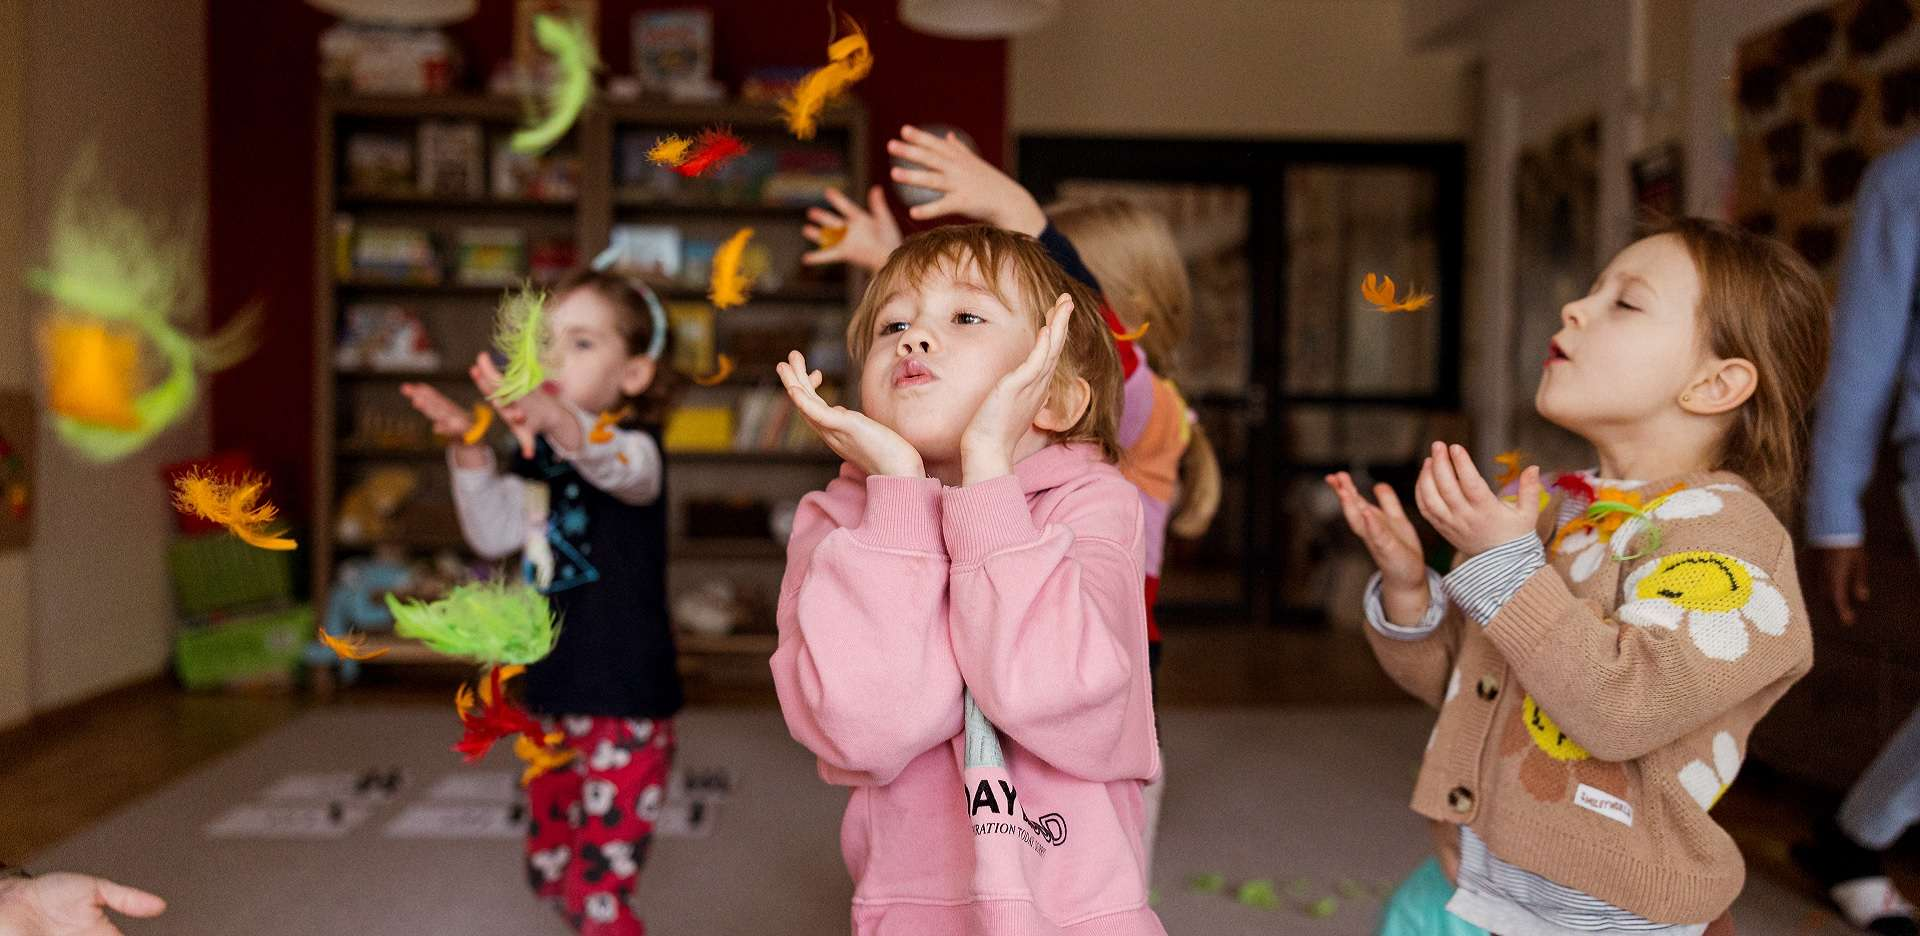
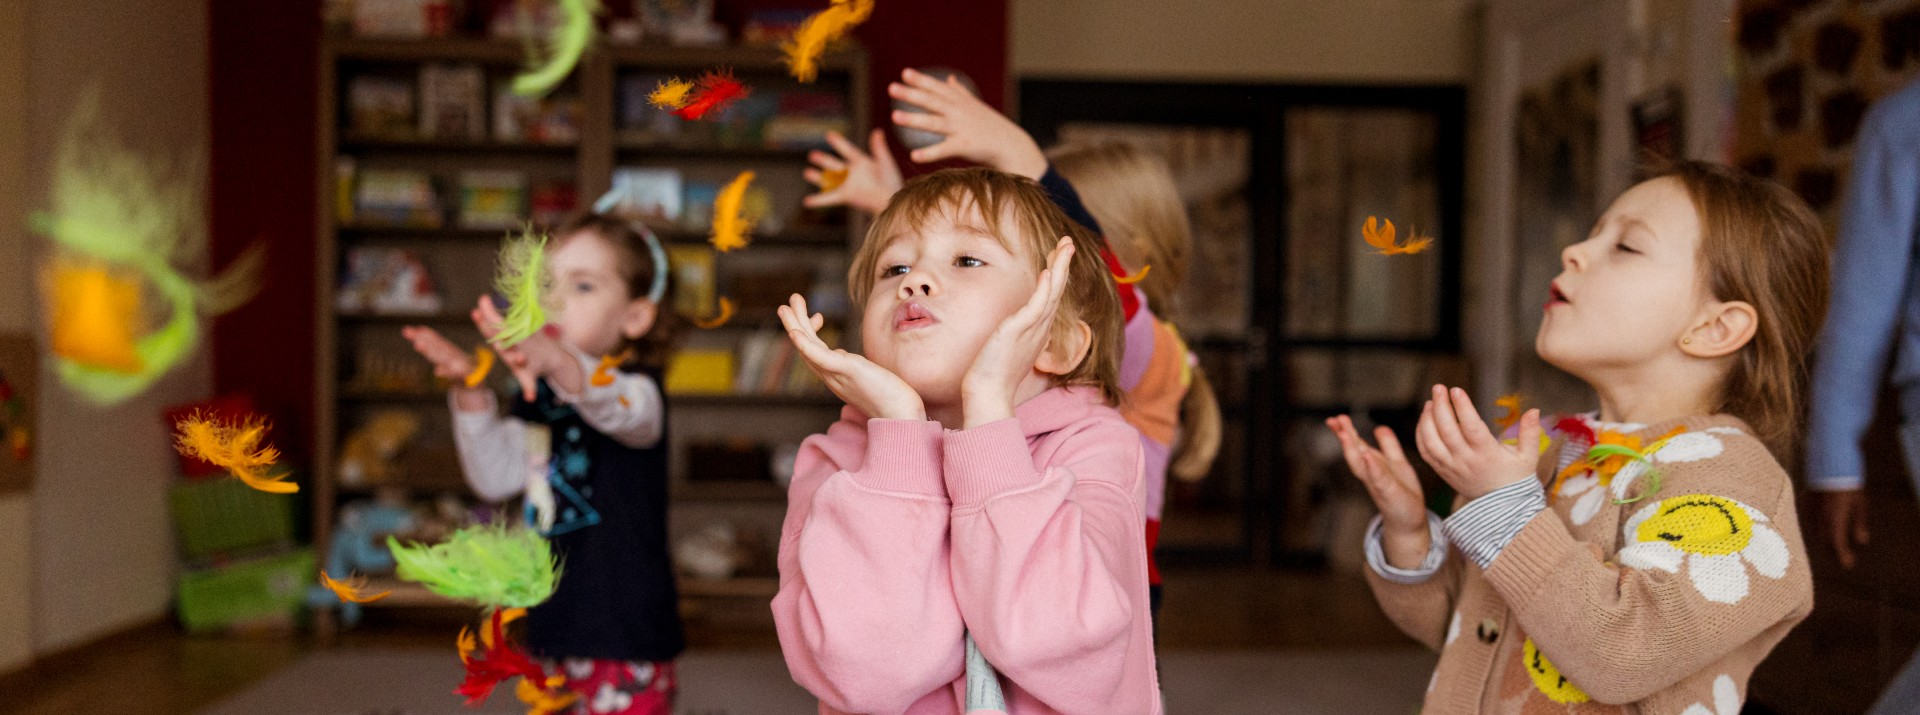
main slider fix

diff --git a/src/components/MainSlider/MainSlider.module.css b/src/components/MainSlider/MainSlider.module.css
@@ -1,7 +1,7 @@
 .slider {
     position: relative;
     width: 100%;
-    aspect-ratio: 1920/936;
+    aspect-ratio: 1920/715;
 
 }
 
